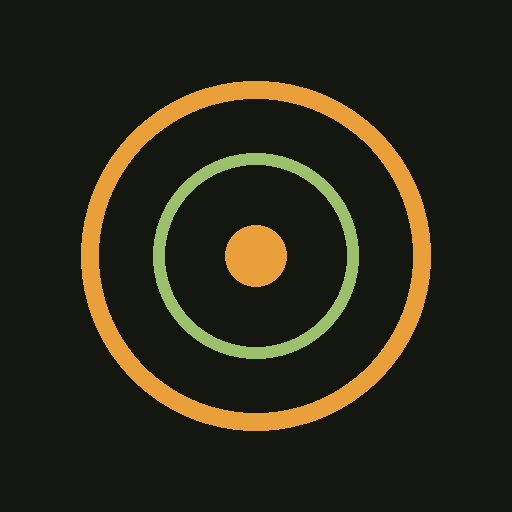
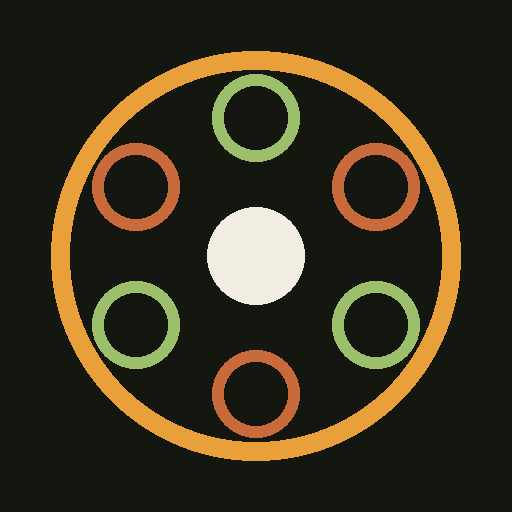
Add files via upload

Changed region(s): [[0.0938, 0.0938, 0.9062, 0.9062], [0.4062, 0.4062, 0.5938, 0.5938]]

diff --git a/index.html b/index.html
@@ -4,7 +4,7 @@
 <meta charset="UTF-8">
 <meta name="viewport" content="width=device-width, initial-scale=1, viewport-fit=cover">
 <meta name="theme-color" content="#14170F">
-<title>My Daily Plate</title>
+<title>ThaliFit</title>
 <link rel="manifest" href="manifest.json">
 <link rel="icon" href="icon-192.png">
 <link rel="apple-touch-icon" href="icon-192.png">
@@ -78,7 +78,7 @@ input:focus{outline:1px solid var(--turmeric)}
 <div class="wrap">
   <div class="hdr">
     <div>
-      <div class="h1">Today's plate<span id="saveChip" class="chip"></span></div>
+      <div class="h1">ThaliFit<span id="saveChip" class="chip"></span></div>
       <div class="sub" id="dateLabel"></div>
     </div>
     <button class="btn-ghost" onclick="toggleTargets()">Targets</button>

diff --git a/sw.js b/sw.js
@@ -1,4 +1,4 @@
-const CACHE = "mdp-v1";
+const CACHE = "thalifit-v1";
 const ASSETS = ["./", "./index.html", "./manifest.json", "./icon-192.png", "./icon-512.png"];
 self.addEventListener("install", e => {
   e.waitUntil(caches.open(CACHE).then(c => c.addAll(ASSETS)));